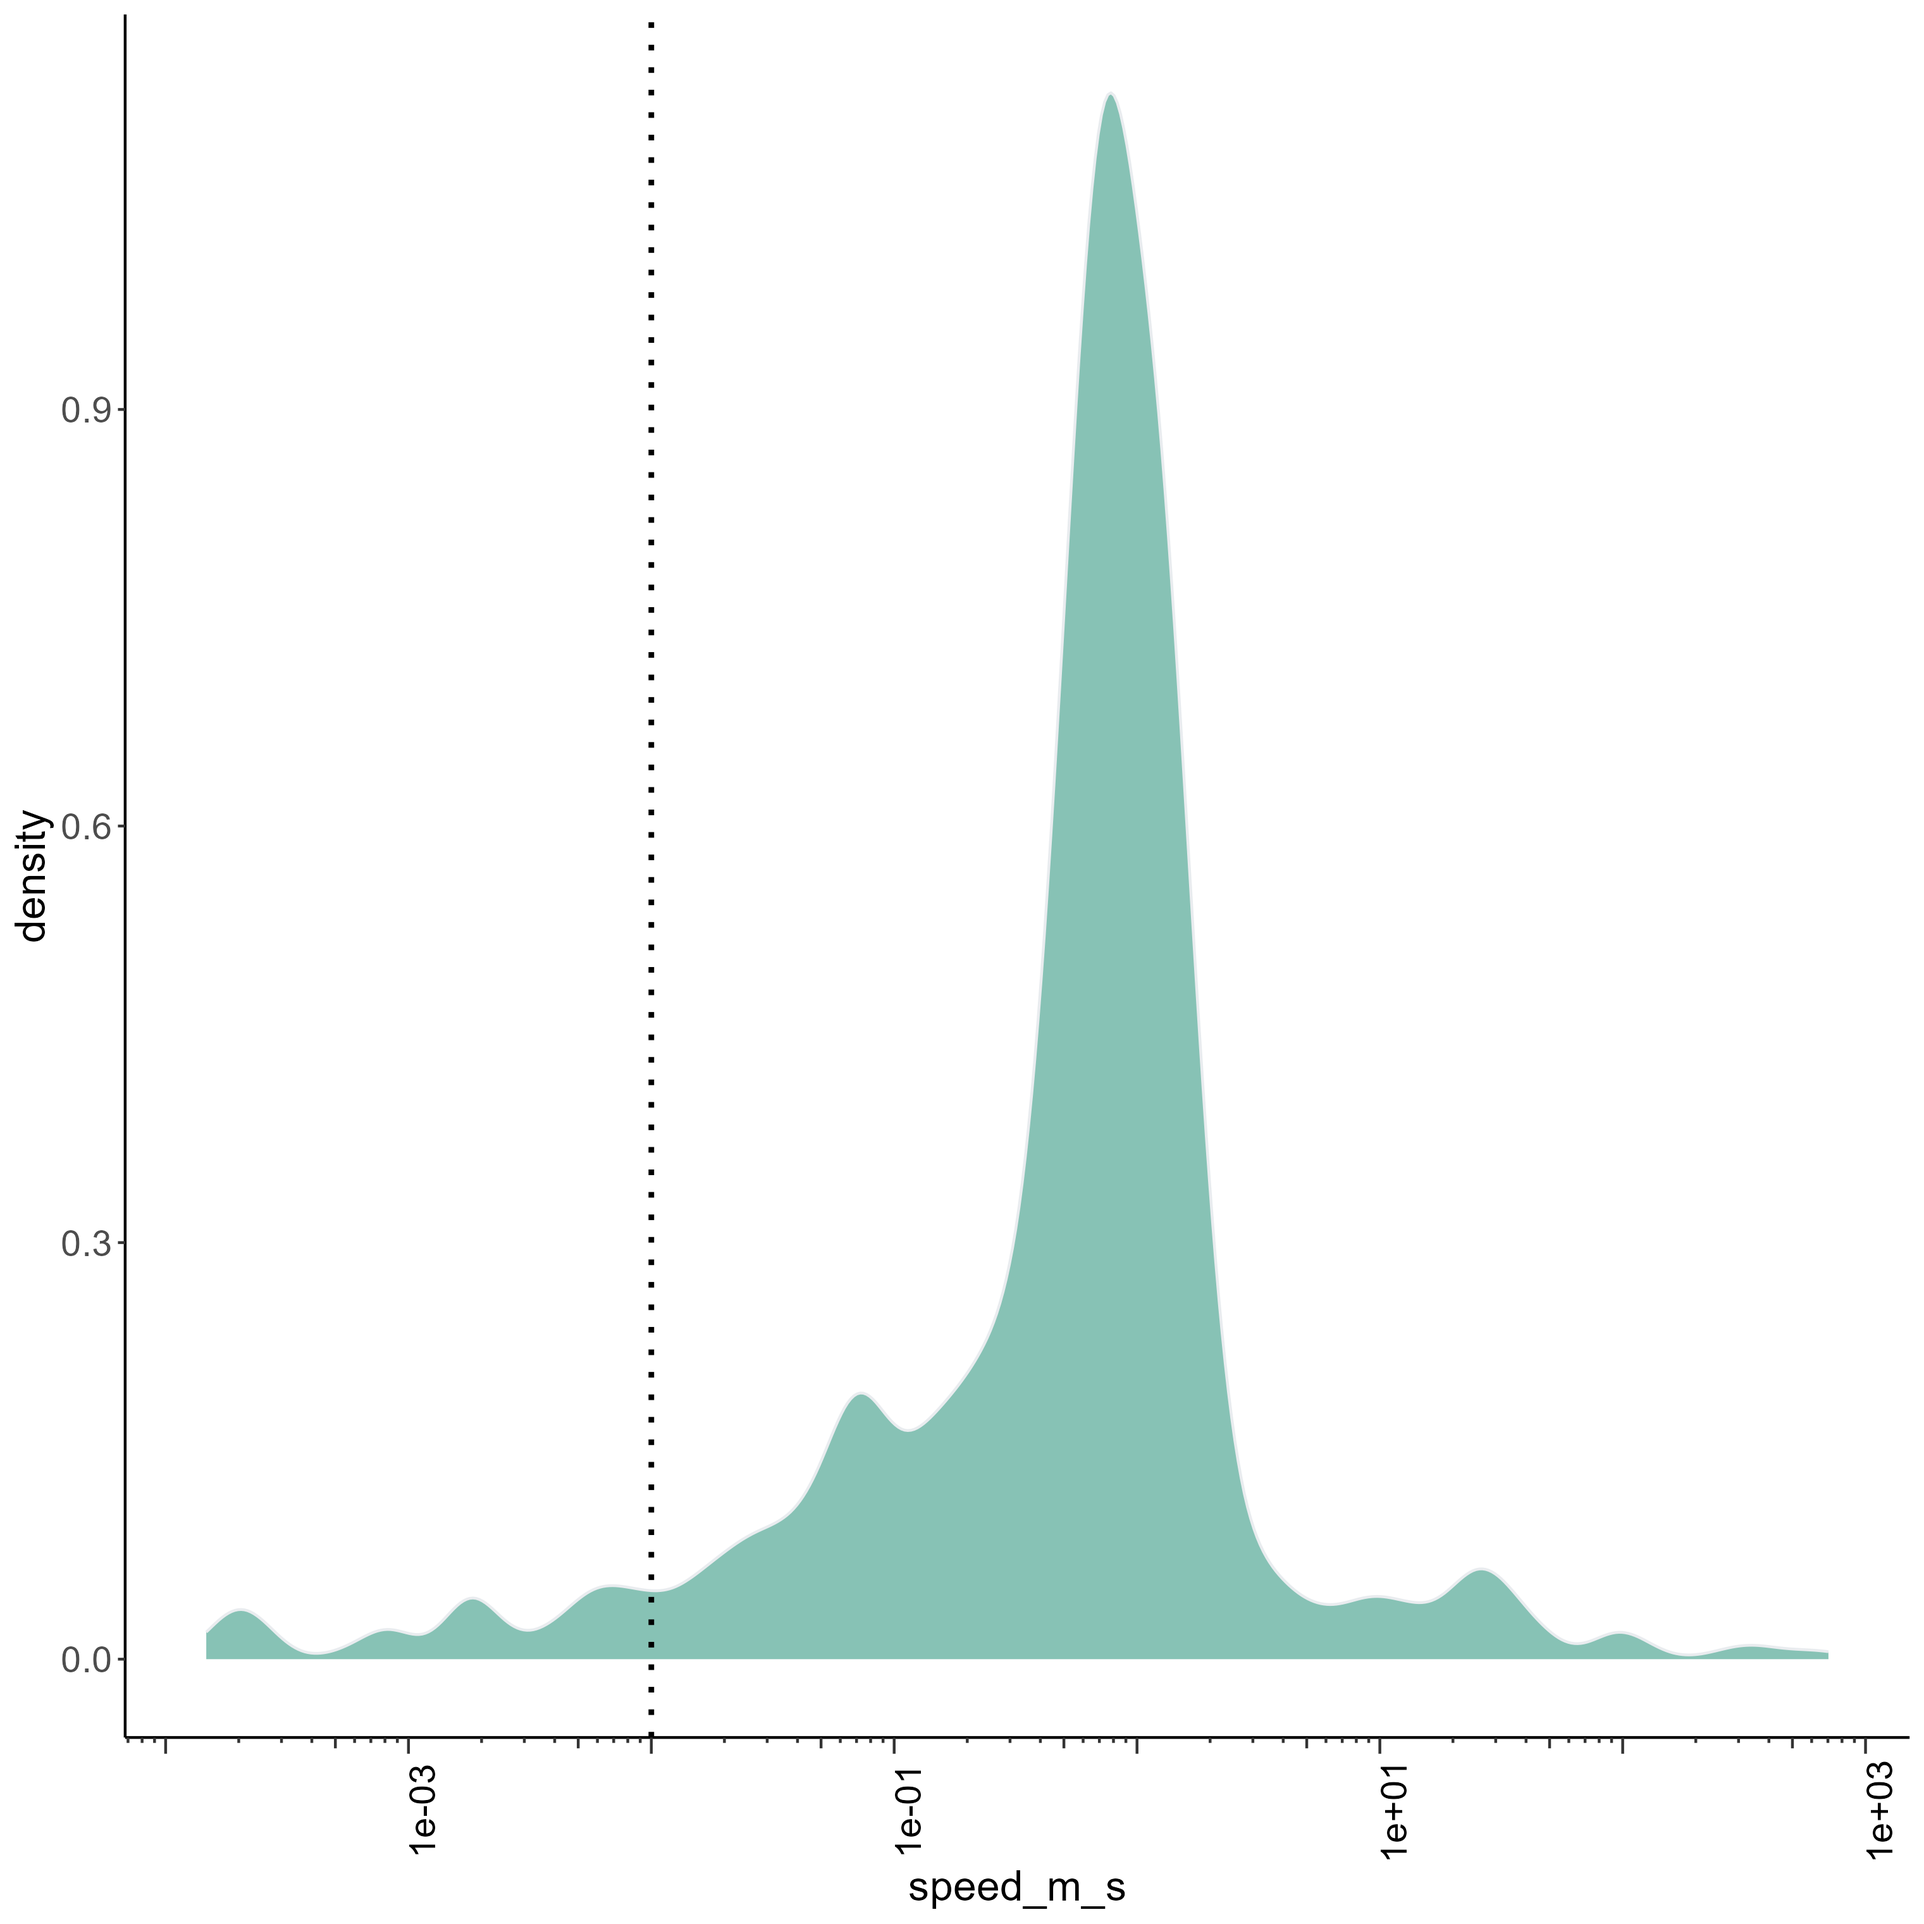
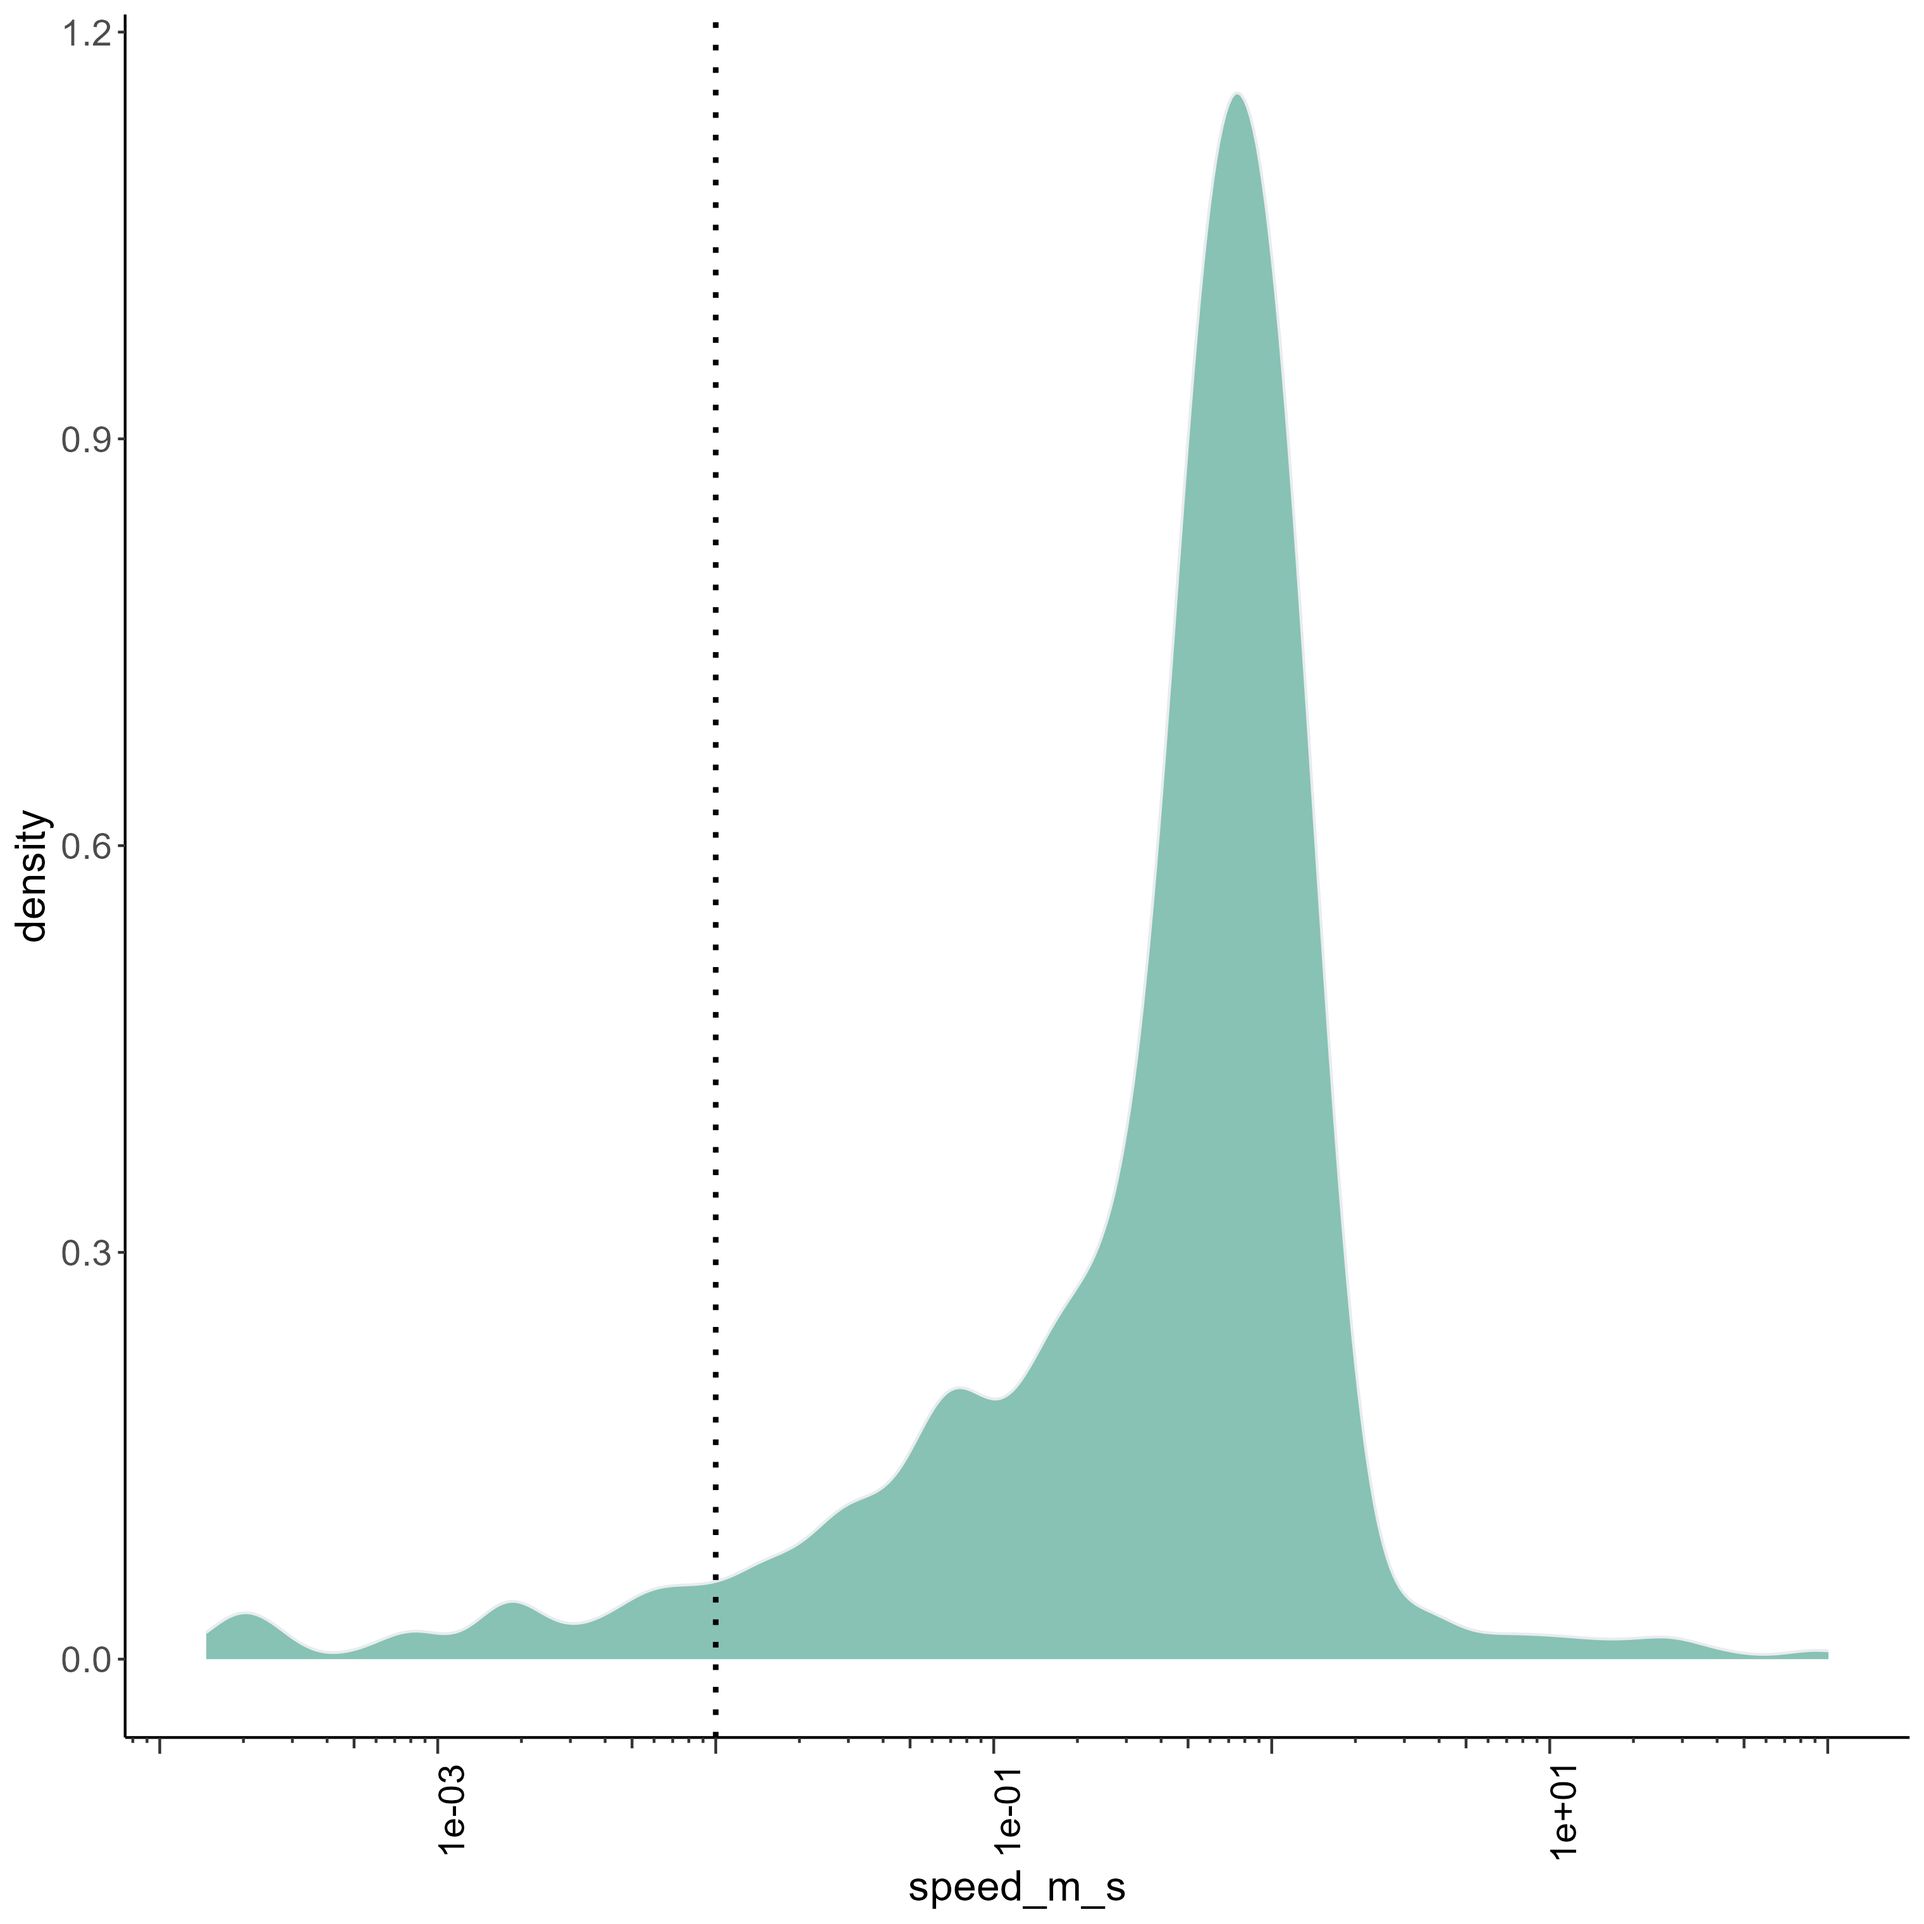
cleaned up the code, maked a README file

diff --git a/README.md b/README.md
@@ -1,0 +1,47 @@
+# WP1 - Grote Nete Analysis
+
+## About
+Linking the eel tracking dataset in the River Grote Nete with environmental variables. This river has an unobstructed water flow with a continuous transition from river to estuary and sea.
+
+This analysis starts from the pre-processing done by Pieterjan Verhelst (https://github.com/PieterjanVerhelst/eel-grotenete-analysis.git). in particular, the dataset "migration.csv" is used as a starting point.
+
+## Project structure
+
+### Data
+<mark>Data last updated on 19-02-2025</mark>
+
+* `/raw:`
+	+ `migration.csv`: dataset containing eel tracks and speed
+    + `/discharge:` contains data on the discharge. All excels are named after the station name
+    + `/temperature:` contains temperature data
+    + `/metadata:` contains the metadata of all environmental data
+        - name: station name
+        - distance_to_source: distance from release location
+        - resolution_unit: unit of the resolution
+        - resolution_multiplier: multipier of this unit of resolution
+	+ `photoperiod.csv`: dataset containing the daily amaount of daylight (unit: minutes)
+* `/interim:`
+	+ `migration.csv`: dataset containing eel tracks and alterantive speed calculation
+    + `\processed`: contains all environmental data again, now processed. E.g.:
+        - 0 --> NA-value, if nessecary
+        - changing the timestamps of the daily average discharge
+* `/external:`
+	+ `distancematrix_2019_grotenete.csv`: distance matrix of the detection station network (matrices are created at https://github.com/inbo/fish-tracking).
+
+### Scripts
+
+* `/importing_data:` Making use of the wateRinfo package and save the data at `/raw`
+* `/visualisation:`
+    + `create_eel_track_env_var_plot.R:` Each eel its trajectory plotted together with an environmental variable
+    + `Figures_for_presentations.R:` Additional figures for presenations
+Sequence of processing:
+* `calculate_speed.R:` calulate the alterantive speed by incorporating the residence times at the receivers in the swimtime
+    + `\src\calculate_speed_function.R:` function to calculate the speed for a dataframe with data from one eel
+* `link_env_variables.R:` linking the environmental variables with the telemetry data
+    
+    For each type of environmental data:
+
+    + For each data point: `\src\concat_env_var_function.R:` function to average the environmental data over the swimtimes of the eels between 2 receivers.
+    + `\src\inverse_distance_function.R:` get one value out of the different datapoints by performing inverse distance weighting for each point in the migration trajectory
+
+    Plotting correlation functions
